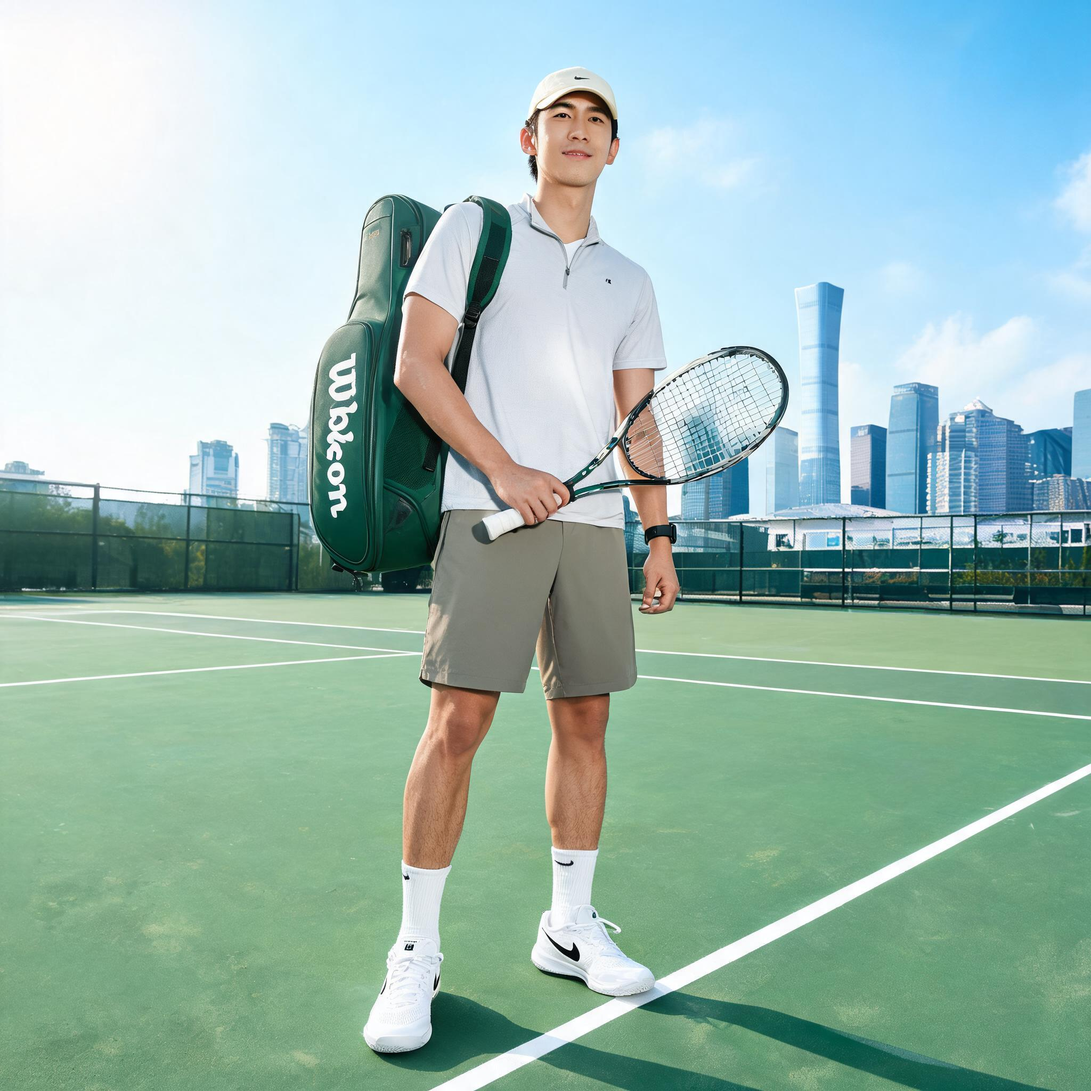
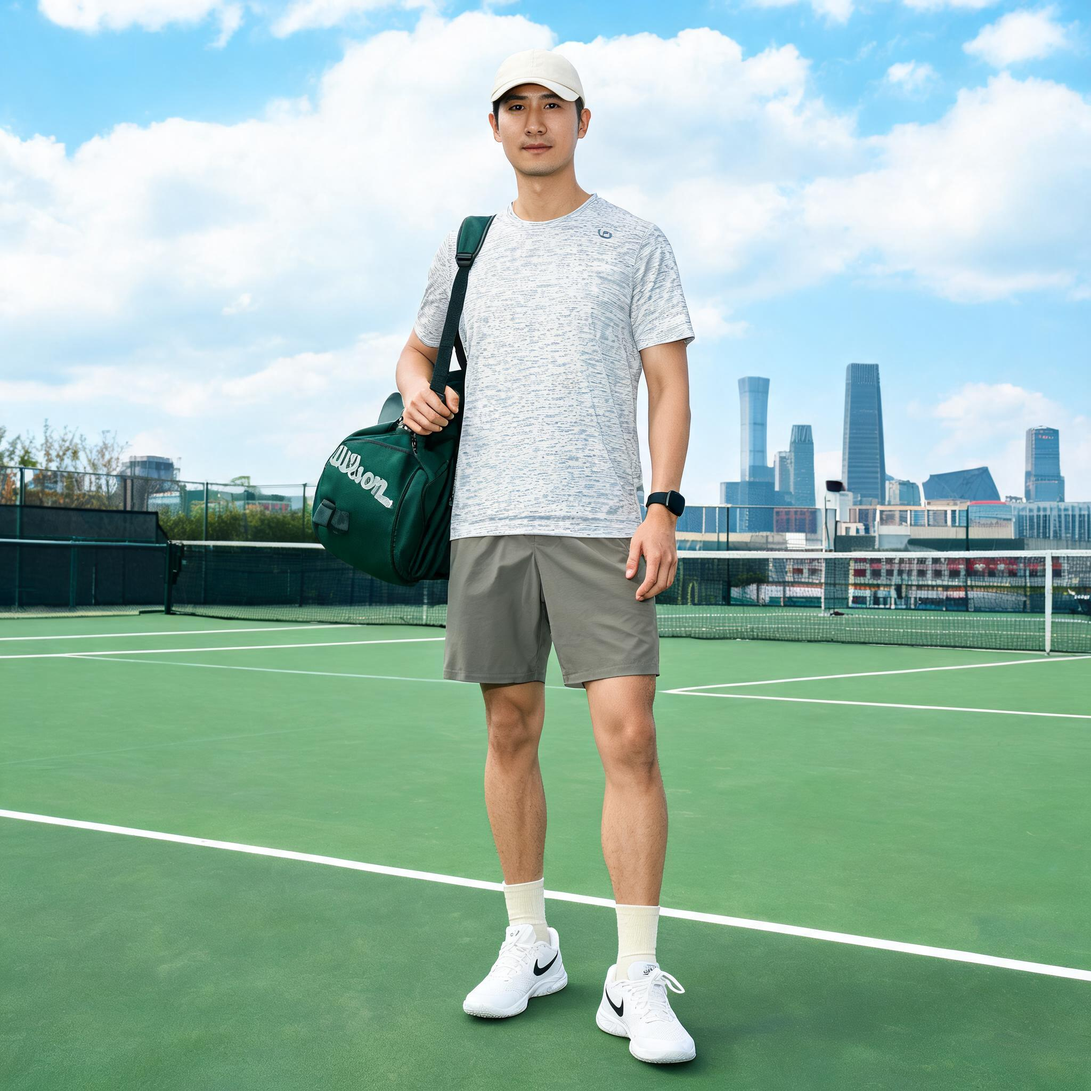
🎨 打网球穿搭 — 远程操控

diff --git a/tools/wechat_control.py b/tools/wechat_control.py
@@ -719,38 +719,13 @@ def run_pipeline(style_hint, task_id=None):
                 comp_dir = os.path.dirname(comp_dir)
             outfit_md = os.path.join(comp_dir, 'outfit.md')
             summary = format_outfit_summary(outfit_md)
+            # 控制台用简介版（清爽易读），微信按用户偏好推送
             result_text = f"👔 **{style_hint}**\n\n{summary}" if summary else f"👔 **{style_hint}**"
 
-            # 微信推送：统一走 build_push 时尚版（B线由状态计数器自动触发）
-            push_synced = False
+            # 微信推送：build_push 按用户偏好推送完整内容
             try:
                 # --no-bline 防止 build_push 独立触发 B线替换 outfit 内容
-                # --stdout 让 build_push 通过 stdout 返回内容，确保控制台与微信完全同步
-                build_out = run_cli(
-                    ['python3', 'tools/build_push.py', outfit_dir, '--rich', '--no-bline', '--stdout'],
-                    timeout=120
-                )
-                # 从 stdout 解析 build_push 返回的内容（主同步通道，最可靠）
-                m = re.search(r'__PUSH_RESULT__(\{.+\})', build_out)
-                if m:
-                    try:
-                        push_data = json.loads(m.group(1))
-                        result_text = push_data.get('content', result_text)
-                        push_synced = True
-                    except json.JSONDecodeError:
-                        pass
-                # 回退层1：读取缓存文件
-                if not push_synced:
-                    push_cache = os.path.join(outfit_dir, '上身效果', '.push_cache.json')
-                    if os.path.exists(push_cache):
-                        with open(push_cache, 'r') as f:
-                            cached = json.load(f)
-                        result_text = cached.get('content', result_text)
-                        push_synced = True
-                        log(f"⚠ stdout 同步失败，回退到缓存文件同步", "WARN")
-                    else:
-                        log(f"⚠ stdout 和缓存文件同步均失败，使用简单摘要", "WARN")
-
+                run_cli(['python3', 'tools/build_push.py', outfit_dir, '--rich', '--no-bline'], timeout=120)
                 # build_push 可能生成了 _swatches.png 等新文件，提交并推送
                 run_cli(['git', 'add', '-A'], timeout=10)
                 run_cli(['git', 'commit', '-m', '📱 手机端穿搭推送'], timeout=10)

diff --git a/outfits/2026-06-14_打网球穿搭/outfit.md b/outfits/2026-06-14_打网球穿搭/outfit.md
@@ -1,7 +1,7 @@
 ---
 date: 2026-06-14
 scene: 打网球穿搭
-weather: 北京6月中旬晴/多云，22-34°C，白天炎热且日晒明显，适合轻薄速干、防晒透气的网球运动穿搭。
+weather: 北京6月中旬晴/多云，22-34°C，午后偏热，需重视透气、速干与遮阳。
 style: 清爽专业网球运动风
 ---
 
@@ -17,21 +17,16 @@ style: 清爽专业网球运动风
 | 帽子 | **HAT-004** | 基础棒球帽 | 米白 |
 | 包 | **BAG-007** | Wilson复古网球桶包 | 墨绿色 |
 | 袜子 | **SOCK-006** | 防滑底短袜 | 米白 |
-| 手部配饰 | **ACC-003** | Apple Watch运动表带 | 黑色 |
+| 手部配饰 | **ACC-003** | Apple Watch黑色运动表带 | 黑色 |
 
 ## 搭配理由
 
-这套以真实网球运动需求为核心：Lululemon速干抗菌短袖适合高温出汗，Artengo网球短裤活动空间充足，Nike Court Lite提供球场移动支撑。浅灰白与卡其灰清爽不沉闷，适合白皙偏瘦体型；米白帽子防晒，Wilson桶包强化专业网球氛围。
+打网球需要轻量、排汗和稳定支撑。TS-009科技短袖透气抗菌，适合高温运动；SH-005是网球线短裤，宽松速干且方便大幅移动；SHOE-005为专业网球鞋，比帆布鞋或休闲鞋更适合球场横向启动。米白帽与防滑袜提升遮阳和实用性，Wilson桶包强化网球氛围。
 
 ## 配色逻辑
 
-浅灰白上衣、卡其灰短裤和全白网球鞋形成低饱和清爽运动底色，视觉干净显白；墨绿色Wilson网球包作为复古运动点缀，黑色运动表带压住整体色调，避免过于单薄。
+浅灰白上衣、卡其灰短裤和全白球鞋组成低饱和清爽底色，适合夏季高温且显白；米白帽与袜子呼应鞋面，墨绿色Wilson桶包作为复古运动点缀，让整体不单调。
 
 ## 风格关键词
 
-网球运动,速干透气,清爽显白,低饱和配色,专业球场感,夏季运动
-
-## 风格笔记
-
-- 日系 City Boy：从一本杂志中诞生的穿搭体系——以宽松廓形和层次叠
-- 低饱和冷色主调 + 1个暖色点缀（如姜黄鞋/帽）
+网球运动,速干透气,清爽显白,低饱和配色,专业球场感
